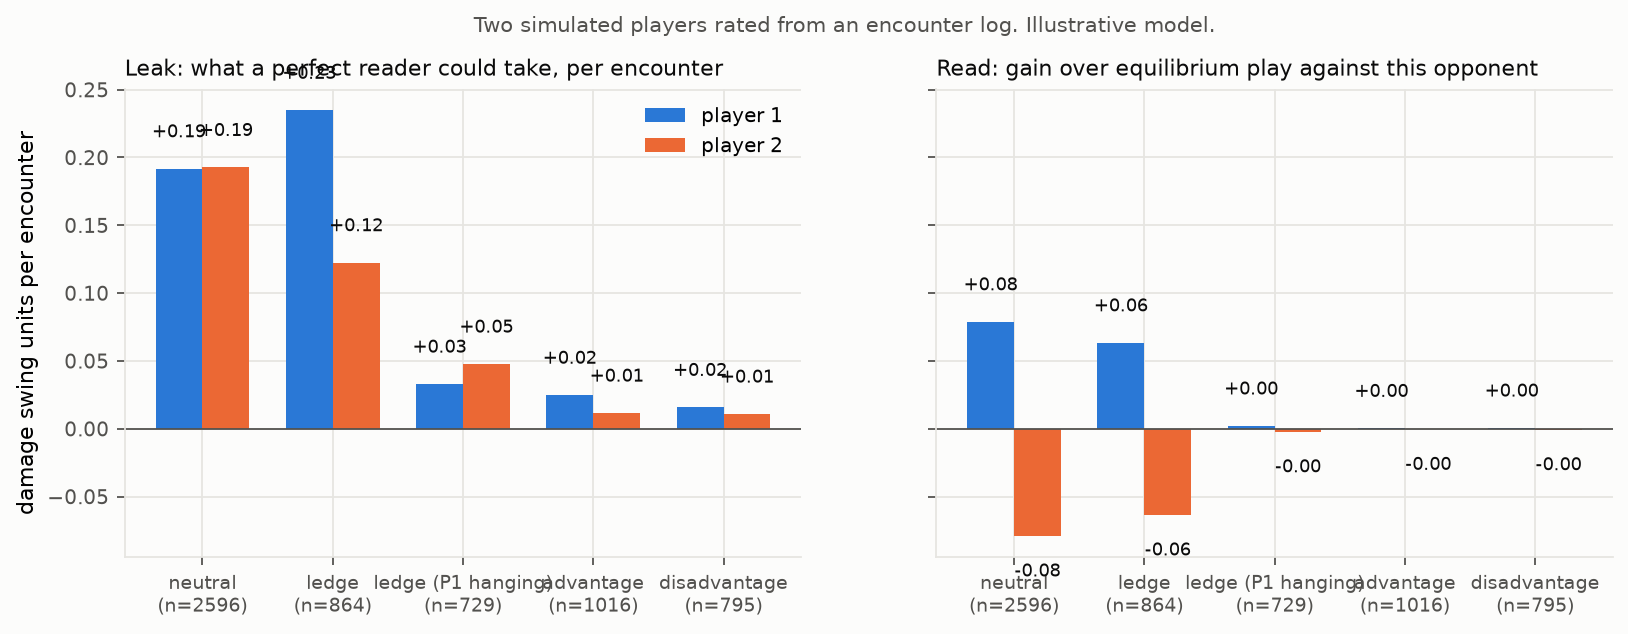
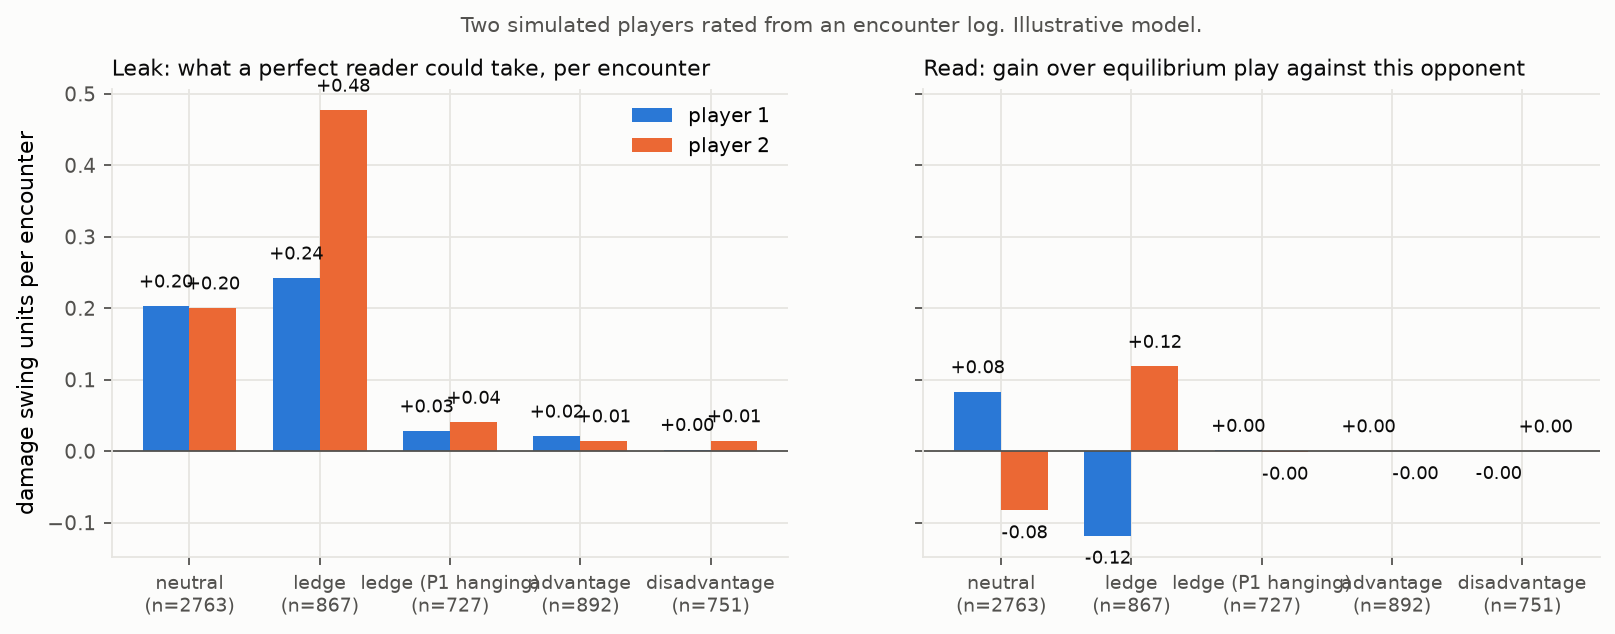
Add exploitation chapter: learners, safe exploiter, tournament, rounds-to-detect; README and verification notes

diff --git a/explain/fighting_game.py b/explain/fighting_game.py
@@ -237,7 +237,7 @@ def play_rounds(m, attack_mix, reader, e_att, e_read, n, rng):
     return total / n
 
 
-def fig_mechanics_vs_reading(n_rounds=3000, seed=0):
+def fig_mechanics_vs_reading(n_rounds=8000, seed=0):
     m = [[float(v) for v in row] for row in UNBALANCED]
     sol = solve_exact(UNBALANCED)
     nash_def = [float(p) for p in sol.defense]
@@ -308,7 +308,7 @@ def simulate_log(game, V, sols, n=6000, seed=1):
     rng = random.Random(seed)
     mats = {s: [[float(v) for v in row] for row in continuation_matrix(game, s, V)] for s in game}
     # Player 1 leaks at the ledge (waits too much) and reads player 2 in neutral (waits more).
-    # Player 2 leaks in neutral (approaches too much) and reads player 1 at the ledge (attack getup more).
+    # Player 2 leaks in neutral (approaches too much) and reads player 1 at the ledge (jumps more).
     def biased(p, shifts):
         q = [float(v) for v in p]
         for i, dv in shifts.items():
@@ -321,7 +321,7 @@ def simulate_log(game, V, sols, n=6000, seed=1):
     mix1[LEDGE] = biased(mix1[LEDGE], {0: 0.2, 1: -0.1, 2: -0.1})
     mix1[NEUTRAL] = biased(mix1[NEUTRAL], {1: 0.15, 2: -0.15})  # a read: wait beats approach
     mix2[NEUTRAL] = biased(mix2[NEUTRAL], {0: 0.15, 1: -0.15})
-    mix2[LEDGE] = biased(mix2[LEDGE], {1: -0.1, 3: 0.1})
+    mix2[LEDGE] = biased(mix2[LEDGE], {2: 0.15, 3: -0.15})  # a read: jump beats a waiting player
 
     log = []
     state = NEUTRAL

diff --git a/explain/tournament.py b/explain/tournament.py
@@ -123,8 +123,9 @@ def fig_safe_exploitation():
     ax.set_xlim(0, 0.5)
     ax.set_ylim(min(0.0, worst - 0.02), 0.2)
     ax.legend(frameon=False, fontsize=9, loc="lower left", ncol=2)
-    ax.set_title("Safe exploitation: more epsilon buys more against biased opponents. Against a reader the loss "
-                 "grows, but stays far below the budget (the floor is value minus epsilon).", fontsize=9, color=INK2, loc="left")
+    ax.set_title("Safe exploitation: more epsilon buys more against biased opponents.\n"
+                 "Against a reader the loss grows, but stays far below the budget (the floor is value minus epsilon).",
+                 fontsize=9, color=INK2, loc="left")
     fig.savefig(os.path.join(OUT, "safe_exploitation.png"), bbox_inches="tight")
     plt.close(fig)
     return eps, results

diff --git a/README.md b/README.md
@@ -1,51 +1,90 @@
-[![Code style: black](https://img.shields.io/badge/code%20style-black-000000.svg)](https://github.com/ambv/black)
+# Generalised rock paper scissors solver
 
-## Purpose and definitions
-The following rock paper scissors generalisation applies to several use-cases, one of them being fighting games. Hence, we'll use "attacker" for player 1 and "defender" for player 2.
-The goal is to find the optimal play given a game configuration. Here "optimal play" is defined by "the strategy used by the attacker that the defender can least abuse of". The attacker's strategy is public and is quantified by the probability of playing each option.
+Two players pick at the same time. The attacker picks a row, the defender picks a column, the cell is the attacker's payoff (+1 win, -1 loss, 0 nothing). Rock paper scissors is the balanced case. This repository solves the unbalanced cases: what to play when one option beats more things than the others.
 
+Interactive version: [docs/index.html](docs/index.html) (matrix editor, draggable strategy landscape, a reader to play against).
 
-In a balanced game, like the original rock paper scissors, the optimal play is simple: the attacker should play 1/3 A0, 1/3 A1 and 1/3 A2.  
-<p align="center">
-    <img src="images/drawing_balanced.svg.png" alt="balanced" width="400"/>
-</p>
- <!-- [![balanced)](images/drawing_balanced.svg.png) -->
+<p align="center"><img src="images/games.png" alt="balanced and unbalanced games" width="820"></p>
 
-In an unbalanced game however, for example if an attack covers two defenses, the optimal play is counter intuitive as the strongest attack is not the most used:
- <!-- [![unbalanced)](images/drawing_unbalanced.svg.png)   -->
- <p align="center">
-    <img src="images/drawing_unbalanced.svg.png" alt="unbalanced" width="400"/>
-</p>
+## The result
 
-This project uses a symbolic solver to obtain the optimal strategy for a given game configuration. To achieve this, we look for the attack configuration that makes all defense configurations equivalent.
-It also has a brute force example.
+Optimal play is the mix whose worst case is best: the strategy an opponent gains nothing from knowing. Rock paper scissors solves to a third each. In the unbalanced game, A1 beats two defences, and the optimal play is
 
-## Install
-Tested with Python 3.6 but should work as long as sympy is installed.
 ```
-pip install -r requirements.txt
+attack  = [4/9, 3/9, 2/9]     defence = [4/9, 2/9, 3/9]     value = 1/9 per round
 ```
 
-## Usage
-**Using the solver:**  
-Change the matrix "m" in the file "solver.py" to fit the game's configuration. Rows are attacks, columns are defenses. For the "unbalanced game" described in this readme it would be:
+The option that wins against two defences is played less than the option that wins against one.
+
+## Why
+
+Against a fixed attack mix, a defender who knows it picks the defence with the lowest payoff for the attacker. The attacker keeps only that lowest bar.
+
+<p align="center"><img src="images/indifference.png" alt="payoff of each defence against four attack mixes" width="900"></p>
+
+Playing A1 half the time hands the defender D0 (the only defence that beats A1) and loses 0.25 per round. The optimum is the mix where the three bars are level: the defender has nothing to choose, so knowing the mix is worthless. Those equalities are the whole solver:
+
 ```
-m = Matrix([[1, 0, -1], [-1, 1, 1], [0, -1, 1]])
-``` 
-Then start the script:
-``` 
-python solver.py
+D0 earns the attacker  A0 - A1
+D1 earns the attacker  A1 - A2
+D2 earns the attacker  -A0 + A1 + A2
+all equal, A0 + A1 + A2 = 1   →   [4/9, 3/9, 2/9], each worth 1/9
 ```
 
-Note: this example only uses +1, 0 or -1 values that mean "win, neutral or lose". But, the solver can be used as is with other values that quantify how hard an option beats another. For example, the first attack could be high risk/high reward:
-```
-m = Matrix([[1.5, 0, -1], [-1.5, 1, 1], [0, -1, 1]])
-``` 
+Over the whole triangle of attack mixes, the guaranteed payoff peaks where the three best-reply regions meet:
 
-**Using the brute force**  
-The EV equation has to be manually changed in the brute_force.py file). Then start the script:
-``` 
-python brute_force.py
-``` 
-## Work in progress
-Handle the case where the 2 players don't have the same number of options (non square matrix)
+<p align="center"><img src="images/landscape.png" alt="worst-case payoff over all attack mixes" width="900"></p>
+
+The frequency of A1 is set by `A0 - A1 = A1 - A2`, which does not involve how hard A1 beats D2. Buff A1 from a neutral trade to a crushing win and A1 stays at exactly one third. The extra strength goes to A0: the defender leans on D0 to hold A1, and A0 is what punishes D0.
+
+<p align="center"><img src="images/buff.png" alt="optimal frequencies as A1 gets stronger" width="900"></p>
+
+Your frequencies are decided by the opponent's incentives, not by your options' strength.
+
+## Being read, and convergence
+
+A fixed habit is income for an adapting opponent. Here the defender best-replies to what it has seen: the intuitive mix loses, the uniform mix is held at zero, the optimal mix drifts up at 1/9 per round whatever the defender does.
+
+<p align="center"><img src="images/being_read.gif" alt="an adapting defender against three attack mixes" width="900"></p>
+
+When both players adapt to each other's history (fictitious play), their average mixes spiral into the optimum and the payoff settles on the value:
+
+<p align="center"><img src="images/convergence.gif" alt="fictitious play converging" width="900"></p>
+
+## Beyond the optimum
+
+The optimal mix is a floor, not a ceiling: it takes exactly the value from everyone and never more. Winning against weaker opponents needs a model of them and a bound on the risk taken. See [docs/exploitation.md](docs/exploitation.md) (learners, a reader, safe exploitation, and how many rounds it takes to prove an edge).
+
+Fighting games can be read as a sequence of such matrices, one per situation, with entries that depend on the game state. See [docs/fighting-games.md](docs/fighting-games.md) (a solved ledge situation, mechanics versus reading, and how to rate players from match logs).
+
+## Install and run
+
+```
+pip install -r requirements.txt          # sympy, for solver.py only
+python rps_solver.py "1 0 -1; -1 1 1; 0 -1 1"    # exact solver, standard library
+python solver.py "1 0 -1; -1 1 1; 0 -1 1"        # symbolic indifference method
+python brute_force.py "1 0 -1; -1 1 1; 0 -1 1"   # grid search
+```
+
+Rows are attacks, columns defences. Any real payoffs work, for example a high-risk A0: `"1.5 0 -1.5; -1 1 1; 0 -1 1"`. Non-square matrices work with `rps_solver.py`.
+
+`solver.py` equalises every defence, which is only right when the optimal play uses every option on both sides. It now checks that and falls back to `rps_solver.py` otherwise. Details and the review of the original code: [docs/verification.md](docs/verification.md).
+
+Development:
+
+```
+pip install -r requirements-dev.txt
+python -m pytest -q tests
+python explain/figures.py && python explain/animations.py   # regenerate images/
+```
+
+## Files
+
+| | |
+|---|---|
+| `rps_solver.py` | exact solver (Shapley-Snow enumeration), best replies, exploitability |
+| `solver.py` | original symbolic solver, certified |
+| `brute_force.py` | grid search |
+| `explain/` | figure, animation, tournament and fighting-game scripts |
+| `docs/` | interactive page and companion documents |
+| `tests/` | pytest suite |

diff --git a/docs/exploitation.md b/docs/exploitation.md
@@ -1,0 +1,83 @@
+# Beyond the optimal mix: exploitation
+
+The solver finds the mix that a defender who knows your strategy can least abuse. That is a floor. This note is about the ceiling: winning more than the floor against opponents who do not play optimally, without giving the floor away.
+
+## The optimal mix is a floor, not a ceiling
+
+Against the optimal attack [4/9, 3/9, 2/9], every defence yields exactly 1/9 per round. So the optimal attacker takes 1/9 per round from every defender: the naive one, the adaptive one, the one reading its history. Never less, and never more.
+
+In the balanced game the value is 0. The optimal player cannot lose in expectation, and cannot win either: against a defender who always plays D0, uniform play still scores 0. Optimal play is unbeatable, not victorious.
+
+The tournament below (unbalanced game, 10000 rounds, 3 seeds) shows this as a flat row and a flat column at +0.11 for Nash, whatever the opponent.
+
+![tournament](../images/tournament.png)
+
+## Exploitation means modelling
+
+To take more than the value, a player has to guess what the opponent will do and reply to that guess. Every adaptive player in `explain/agents.py` is a model plus a best reply:
+
+* FictitiousPlay: best reply to the opponent's frequencies so far.
+* RegretMatching and Hedge: play in proportion to what each option would have earned.
+* NGram(3): predict the next move from the last three, best reply to the prediction.
+
+Against the "Intuitive" attacker (A1 half the time), a learner takes about +0.25 per round where Nash takes +0.11. Against a cyclic player, NGram(3) takes the maximum, +1.00.
+
+Every model can be wrong, so every exploiter is itself exploitable:
+
+* FictitiousPlay is deterministic. NGram(3) reads it and takes +0.49 as an attacker (and holds the FictitiousPlay attacker to -0.33 as a defender).
+* The Sticky player avoids repeating its last move. That rule is a pattern: NGram(3) takes +0.45 from it, more than from the Intuitive player whose bias is larger but memoryless.
+* A Cyclic defender takes 0 from RegretMatching but is crushed by NGram; FictitiousPlay beats the Cyclic defender only because both are deterministic and happen to fall into a favourable loop.
+
+Nothing here beats Nash. Reading only pays against players who have something to read.
+
+## Safe exploitation
+
+The trade-off has a clean formulation: choose a budget epsilon, and only deviate from the optimal mix as far as a perfect counter could punish you by epsilon per round. `SafeExploiter(epsilon)` models the opponent's frequencies, computes the best reply, and plays the mix `(1 - a) * Nash + a * best_reply` with the largest `a` such that the mix's exploitability (game value minus what the mix guarantees) stays under epsilon. With epsilon = 0 it is exactly Nash.
+
+![safe exploitation](../images/safe_exploitation.png)
+
+Against a biased defender the gain grows with epsilon (+0.11 to +0.15). Against the NGram reader the exploiter's own deviations are read and it drops to +0.07 at epsilon = 0.4, still far above the floor of 1/9 - 0.4. The floor is a worst case over all defences, and the reader has to learn the deviation before it can punish it.
+
+This is the approach of Ganzfried and Sandholm, "Safe Opponent Exploitation" (ACM Conference on Electronic Commerce, 2011; ACM Transactions on Economics and Computation, 2015), who show the budget can also be accumulated: profit taken earlier can be risked later without lowering the guaranteed total. Pattern exploitation has a long history in computer rock paper scissors; Iocaine Powder, winner of the first International RoShamBo Programming Competition (1999), works by running a set of predictors and meta-predictors and betting on whichever has been right recently.
+
+## What "beating someone" means
+
+A per-round edge d is a drift on a random walk. With per-round standard deviation sigma (about 0.8 for payoffs in {-1, 0, 1}), after N rounds the score is around `d N`, give or take `2 sigma sqrt(N)`. A player with no edge at all reaches `+2 sigma sqrt(N)` about 2.5% of the time, so an edge is only visible once `d N` clears that line:
+
+    N* = (2 sigma / d)^2
+
+* Nash on the unbalanced game, d = 1/9: about 200 rounds.
+* d = 0.05: about 1000 rounds.
+* d = 0.02: about 6400 rounds.
+* d = 0.01: about 25000 rounds. A 1% edge cannot be confirmed in 10000 games.
+
+![rounds to detect](../images/rounds_to_detect.png)
+
+The consequence for exploitation: reading pays fast against strongly biased opponents and is nearly invisible against slightly biased ones, while the risk (epsilon) is paid on every round.
+
+## Tournament results
+
+Attacker's mean payoff per round, unbalanced game, 10000 rounds, mean of 3 seeds. Game value +0.111.
+
+| attacker \ defender | Nash | Uniform | Intuitive | Sticky | Cyclic | FictPlay | RegretM | Hedge | NGram(3) | Safe(0.1) |
+|---|---|---|---|---|---|---|---|---|---|---|
+| Nash | +0.11 | +0.11 | +0.11 | +0.11 | +0.11 | +0.12 | +0.11 | +0.11 | +0.12 | +0.11 |
+| Uniform | +0.11 | +0.11 | +0.08 | +0.09 | +0.11 | -0.01 | +0.00 | +0.00 | +0.00 | +0.10 |
+| Intuitive | +0.11 | +0.17 | +0.06 | +0.10 | +0.17 | -0.26 | -0.25 | -0.25 | -0.25 | +0.06 |
+| Sticky | +0.11 | +0.15 | +0.07 | +0.10 | +0.15 | -0.16 | -0.16 | -0.17 | -0.29 | +0.08 |
+| Cyclic | +0.11 | +0.11 | +0.08 | +0.09 | +1.00 | +0.67 | +0.01 | +0.03 | -1.00 | +0.18 |
+| FictitiousPlay | +0.10 | +0.33 | +0.25 | +0.16 | +0.33 | +0.11 | +0.11 | +0.11 | -0.33 | +0.11 |
+| RegretMatching | +0.11 | +0.34 | +0.25 | +0.15 | +0.33 | +0.10 | +0.12 | +0.12 | +0.10 | +0.10 |
+| Hedge | +0.12 | +0.34 | +0.25 | +0.16 | +0.33 | +0.11 | +0.11 | +0.11 | +0.07 | +0.10 |
+| NGram(3) | +0.12 | +0.31 | +0.23 | +0.45 | +1.00 | +0.49 | +0.12 | +0.15 | +0.11 | +0.11 |
+| Safe(0.1) | +0.11 | +0.13 | +0.13 | +0.13 | +0.13 | +0.11 | +0.11 | +0.11 | +0.11 | +0.11 |
+
+Players: Nash (optimal mix), Uniform, Intuitive (strongest option half the time), Sticky (strongest option over-played, never the same option twice in a row), Cyclic (0, 1, 2, 0, ...), FictitiousPlay, RegretMatching, Hedge, NGram(3), Safe(0.1) (safe exploiter with epsilon = 0.1).
+
+## How to run
+
+```
+python explain/tournament.py          # about 2 minutes, writes the three images
+ROUNDS=2000 python explain/tournament.py
+python -m pytest tests/test_agents.py
+```

diff --git a/docs/verification.md b/docs/verification.md
@@ -1,0 +1,47 @@
+# Verification of the original solver
+
+A review of the 2020 code and README, with every claim checked against an independent method.
+
+## Definitions
+
+The README defines optimal play as "the strategy the defender can least abuse": the mix whose worst case, over every defence, is best. That is the maximin strategy. For a two-player zero-sum game (the defender's payoff is minus the attacker's, which the matrix convention implies), the minimax theorem says the maximin mix, the minimax mix of the defender, and the Nash equilibrium are the same thing. The definition is correct and standard.
+
+## The examples
+
+| Game | README | Check (`rps_solver.solve_exact`, exact rationals) |
+|---|---|---|
+| Balanced `[[1,0,-1],[-1,1,0],[0,-1,1]]` | attack [1/3, 1/3, 1/3] | attack [1/3, 1/3, 1/3], defence [1/3, 1/3, 1/3], value 0 |
+| Unbalanced `[[1,0,-1],[-1,1,1],[0,-1,1]]` | attack [4/9, 3/9, 2/9], value 1/9 | attack [4/9, 3/9, 2/9], defence [4/9, 2/9, 3/9], value 1/9 |
+| High risk `[[1.5,0,-1],[-1.5,1,1],[0,-1,1]]` | not stated | attack [10/23, 8/23, 5/23], value 3/23 |
+
+Both README numbers are right, and the pair (attack, defence) is certified: the attack earns at least 1/9 against every defence, the defence concedes at most 1/9 to every attack. `brute_force.py` agrees to grid precision. An LP solver (scipy `linprog`, HiGHS) agrees on 3000 random matrices up to 5x5, square and not.
+
+## The method: where it is right and where it breaks
+
+`solver.py` finds the attack mix that makes every defence earn the same. This is the indifference principle, and it is the right idea: at the optimum, the defender gains nothing by switching defence.
+
+It is only a full solution when the optimal play uses every option on both sides. When an option should be played with probability zero (dominated, or simply not needed), the equal-payoff equations no longer describe the optimum. Three things can then happen, all seen on random `{-1, 0, 1}` matrices (3000 draws, sizes 2 to 4):
+
+| Outcome of the original method | Count |
+|---|---|
+| Correct optimum | 959 |
+| Linear system singular, no unique solution | 1172 |
+| A "probability" comes out negative | 691 |
+| Valid-looking probabilities, but not the maximin | 178 |
+
+The last row is the dangerous one. Example: `[[0,0,-1,-1],[-1,-1,-1,-1],[1,0,1,0],[0,1,1,0]]`. Equalising every column gives the pure attack A1 with value -1, which does satisfy the equations, while the true optimum is A2 with value 0. The original code prints the wrong answer without warning.
+
+For rock-paper-scissors-like games (every option beats something and is beaten by something, no option dominated), the equilibrium is usually fully mixed and the method works, which is why the README examples are fine.
+
+## What changed
+
+* `rps_solver.py` (new, standard library only): exact solver by enumeration of square sub-matrices (Shapley and Snow, 1950). Each candidate is certified against the full matrix, so the answer is always an optimal pair, including for non-square matrices and dominated options. Also provides best replies, exploitability and a certification function.
+* `solver.py`: same sympy approach, now solving both sides, certifying the pair, and falling back to `rps_solver` with a message when the indifference method does not apply. Matrix can be given on the command line.
+* `brute_force.py`: general matrix and grid. The original grid `range(nb_steps)` stopped one step short of probability 1, and the value formula was hard-coded for one game.
+* `requirements.txt`: `sympy==1.5.1` and `mpmath==1.1.0` do not install on current Python; unpinned.
+* README, "high risk/high reward" example: the matrix shown changes `A1 vs D0` to -1.5, not A0's payoffs. A high-risk A0 would be `[[1.5, 0, -1.5], ...]`. The interactive page uses that version.
+* Tests: `tests/test_rps_solver.py` covers the examples, dominated options, the failure case above, non-square games and random games.
+
+## A property worth knowing
+
+In the unbalanced game the frequency of A1 is fixed by one equation, `A0 - A1 = A1 - A2`, which does not involve A1's payoff against D2. Raising that payoff from 0 to 3 leaves A1 at exactly 1/3 and moves the weight from A2 to A0 (`images/buff.png`). Buffing an option changes how often its counter, and its counter's counter, are played; not how often the option itself is played.
